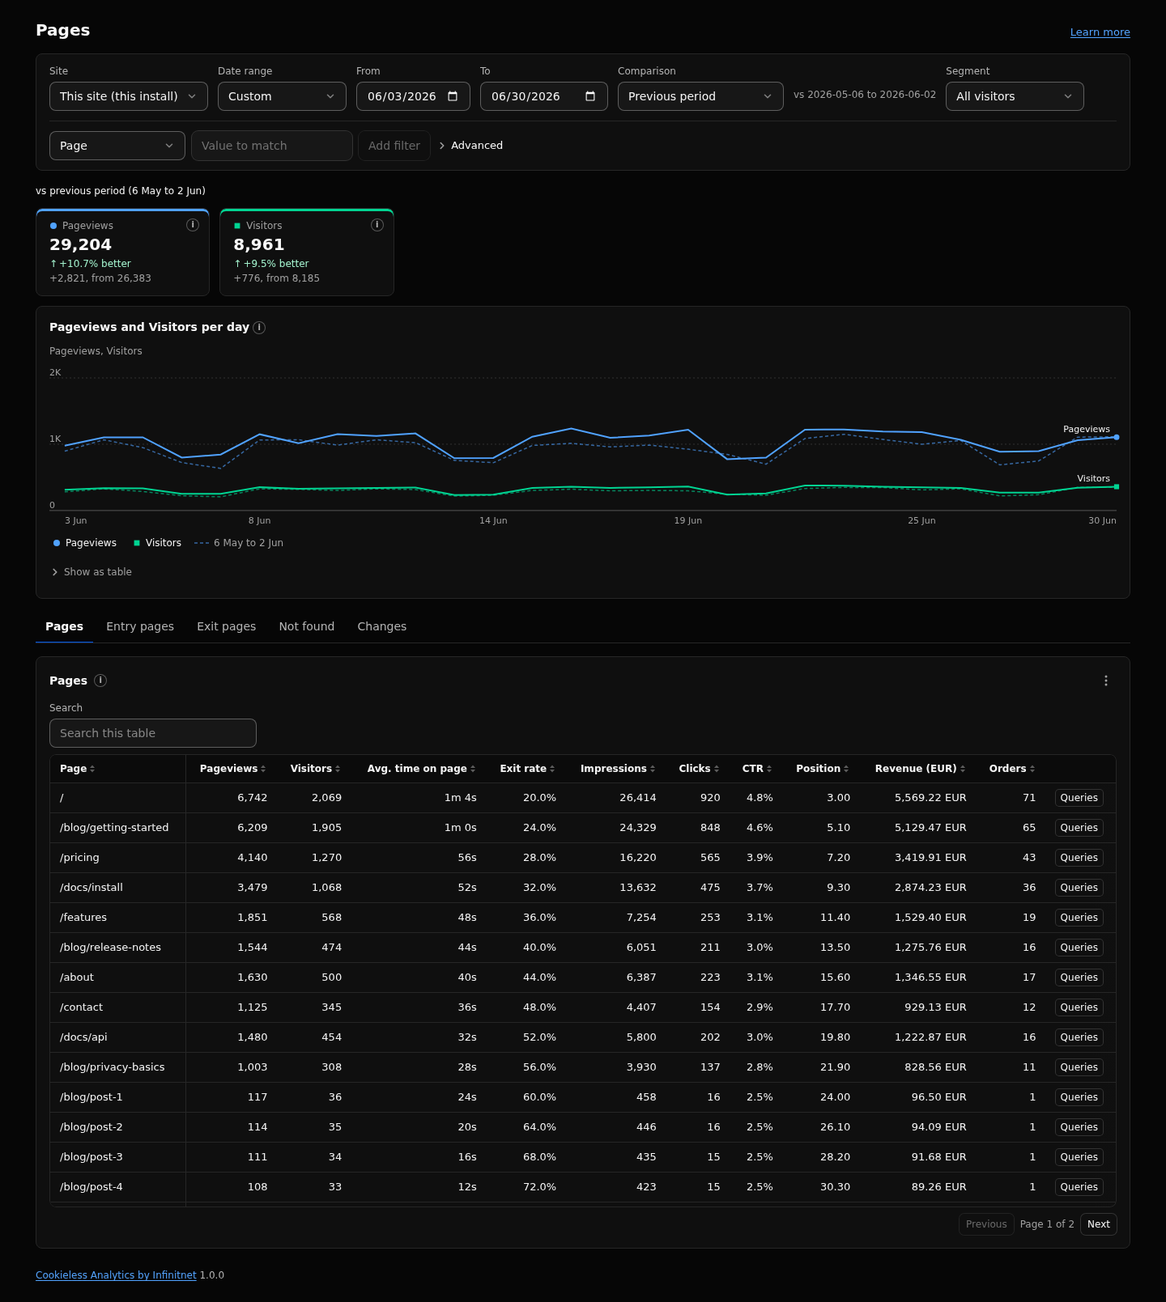
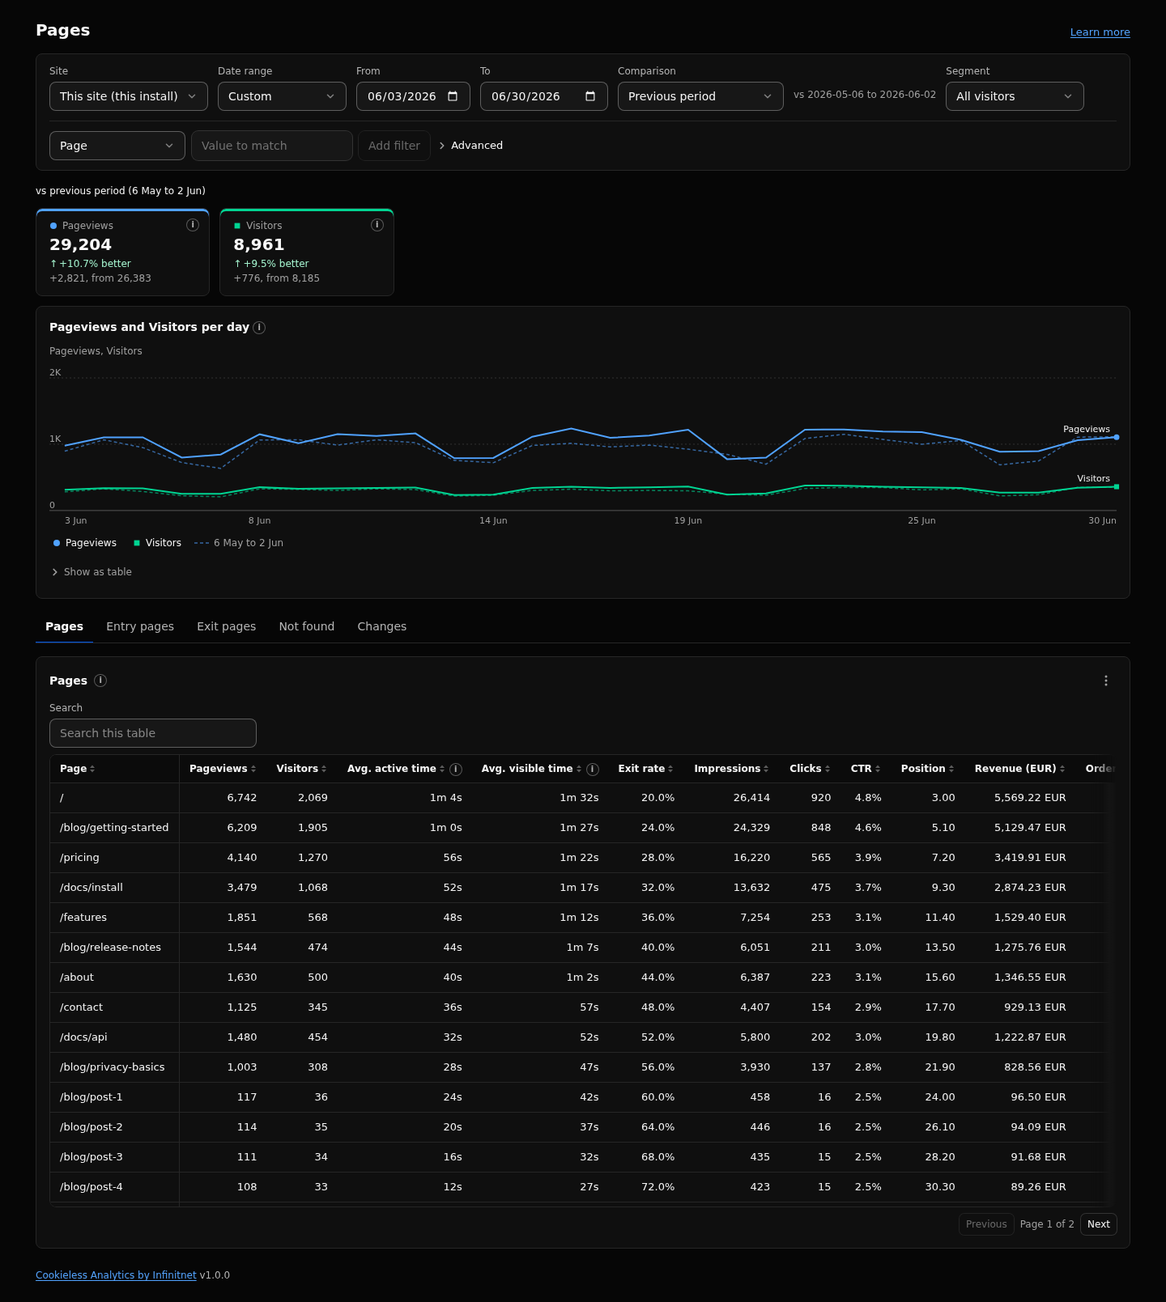
feat: honest time metrics (Avg. active time, Avg. visible time) and a form submit note

diff --git a/src/agent/schemas.ts b/src/agent/schemas.ts
@@ -193,7 +193,9 @@ export const METRICS: Record<string, string> = {
 	views_per_session: "pageviews / sessions.",
 	bounce_rate: "Sessions that are not engaged, divided by sessions: 1 - engaged_rate (the GA4 meaning).",
 	engaged_rate: "Sessions with active time at or above the engagement threshold, more than one page view or any event, divided by sessions.",
-	avg_duration: "Mean session duration in seconds (the longer of time between first and last page view and visible time).",
+	avg_duration: "Mean session duration in seconds: the longer of the visit span (first to last activity) and the visible time. Not interaction time.",
+	avg_time: "Mean active time per page view in seconds (pages report): time with interaction, within 60 s of the last one, so an open but untouched page counts 0 s.",
+	avg_visible: "Mean visible time per page view in seconds (pages report, detailed data only; null in summaries).",
 	realtime: "Sessions active within the realtime window (overview only).",
 	conversions: "Sessions that reached a goal.",
 	conversion_rate: "conversions / sessions of the filtered set.",
@@ -210,7 +212,7 @@ export const METRICS: Record<string, string> = {
 	pogo_sticks: "Measured search sessions with one page view, no events, a short click, and a page left for the back and forward cache.",
 	reentered: "Search sessions that a later arrival from a search engine joined.",
 	returned_from_search: "Search sessions that a later arrival from a search engine joined and whose landing page view (the first) was left for the back and forward cache.",
-	avg_engaged: "Mean active (engaged) time per session in seconds (Search Satisfaction reports).",
+	avg_engaged: "Mean active time per session in seconds (Search Satisfaction reports): time with interaction, not the time the page was open.",
 	measured_rate: "measured / sessions: the share of sessions with a measurable end.",
 	score: "pct_long - pct_bad - pogo_stick_rate (pogo_stick_rate counts as 0 without measured search sessions); null without measured sessions. Ranks best and worst pages (satisfaction params.rank).",
 	pct_long: "long_clicks / measured.",
@@ -295,7 +297,7 @@ export const BEHAVIOUR_CATALOG = {
 export const CONTENT_CATALOG = {
 	collections: {
 		tile: true,
-		metrics: { pageviews: "Pageviews of the collection's pages.", visitors: "Page visitors: the sum of per-page daily visitors, so one person reading two pages counts twice.", sessions: "Sessions summed per page.", avg_time: "Average visible time on page in seconds.", pages: "Distinct paths of the collection." },
+		metrics: { pageviews: "Pageviews of the collection's pages.", visitors: "Page visitors: the sum of per-page daily visitors, so one person reading two pages counts twice.", sessions: "Sessions summed per page.", avg_time: "Average active time per page view in seconds: time with interaction, not the time the page was open.", pages: "Distinct paths of the collection." },
 		rule: "Reads the daily page summaries (ca_rollup dim page), so it covers the whole summary retention. Paths are classified by each routable collection's URL pattern; the pattern with the most literal characters wins and unmatched paths are (other). totals.coverage is the classified share of all pageviews; the rest is folded into (other) by the top 500 pages per day.",
 		cacheSeconds: COLLECTIONS_CACHE_SECONDS,
 		notices: ["filters_not_applied", "not_available_for_site"],

diff --git a/src/charts/definitions.ts b/src/charts/definitions.ts
@@ -7,7 +7,7 @@ import { CAVEATS } from "./caveats.js";
 import type { ReportName } from "../query/reports/index.js";
 import { POGO_DEFINITION, RETURNED_DEFINITION, SATISFACTION_CAVEAT, SCORE_DEFINITION } from "../query/reports/satisfaction-copy.js";
 
-const BOUNCE = "Share of sessions that were not engaged: under the engaged time, one page view and no event. Equal to 1 minus engaged rate.";
+const BOUNCE = "Share of sessions that were not engaged: active time under the engaged threshold, one page view and no event. Equal to 1 minus engaged rate.";
 
 /** Figures by metric key. Position band keys (`queries_1_3`, `band_51_plus`) are read by `metricDefinition`. */
 export const METRIC_DEFINITIONS: Readonly<Record<string, string>> = {
@@ -16,10 +16,11 @@ export const METRIC_DEFINITIONS: Readonly<Record<string, string>> = {
 	pageviews: "Pages viewed by people in the range.",
 	views_per_session: "Page views divided by sessions.",
 	bounce_rate: BOUNCE,
-	engaged_rate: "Share of sessions with at least the engaged time of activity, two or more page views, or any event.",
-	avg_duration: "Average session length: the longer of first to last page view and the time the pages were visible.",
+	engaged_rate: "Share of sessions with active time of at least the engaged threshold, two or more page views, or any event.",
+	avg_duration: CAVEATS.duration,
 	entries: "Sessions that started on this page.",
-	avg_time: "Average active time on the page per page view.",
+	avg_time: CAVEATS.active_time,
+	avg_visible: CAVEATS.visible_time,
 	exit_rate: "Share of the page's views that were the last view of their session.",
 	realtime: "Sessions active within the realtime window.",
 	completions: "Times the goal was reached in the range.",
@@ -30,7 +31,7 @@ export const METRIC_DEFINITIONS: Readonly<Record<string, string>> = {
 	rate: "Share of sessions that sent this event.",
 	measured: "Sessions with a measurable end, where at least one engagement update arrived.",
 	measured_rate: CAVEATS.satisfaction_measured,
-	avg_engaged: "Average active time per session.",
+	avg_engaged: "Average active time per session: time with interaction, not the time the page was open.",
 	long_clicks: "Measured sessions longer than the long click time.",
 	short_clicks: "Measured sessions at or under the long click time.",
 	bad_experiences: "Measured single page sessions without interaction, shorter than the bad experience time.",
@@ -116,7 +117,7 @@ export type PanelId =
 export const PANEL_DEFINITIONS: Readonly<Record<ReportName | PanelId, string>> = {
 	overview: "Visitors, sessions and engagement of the site over the selected range.",
 	timeseries: "The chosen figures per hour, day or week over the selected range.",
-	pages: "Page views, visitors and average time on page for each page.",
+	pages: "Page views, visitors, average active time and average visible time for each page.",
 	entry_pages: "Sessions by the page they started on, with their bounce rate and duration.",
 	exit_pages: "Sessions by the page they ended on, and the share of the page's views that were the last one.",
 	not_found: "Requests from people that got a page not found (404) response, by path and referring page.",

diff --git a/tests/reports-golden.test.ts b/tests/reports-golden.test.ts
@@ -143,6 +143,7 @@ interface Hit {
 	name: string | null;
 	props: Record<string, unknown> | null;
 	dur: number | null;
+	vis: number | null;
 	nav: number | null;
 	exit: number | null;
 	scroll: number | null;
@@ -165,7 +166,7 @@ function load(raw: Database.Database) {
 		for (const [key, e] of Object.entries(JSON.parse(v.doc) as Record<string, Record<string, unknown>>)) {
 			if (e.t === undefined) continue;
 			const n = (f: string) => (e[f] === undefined ? null : Number(e[f]));
-			hits.push({ v, key, ts: v.started + Number(e.t), kind: e.n === undefined ? "pv" : "ev", path: (e.p as string) ?? null, query: (e.qs as string) ?? null, name: (e.n as string) ?? null, props: (e.pr as Record<string, unknown>) ?? null, dur: n("d"), nav: n("nt"), exit: n("x"), scroll: n("s") });
+			hits.push({ v, key, ts: v.started + Number(e.t), kind: e.n === undefined ? "pv" : "ev", path: (e.p as string) ?? null, query: (e.qs as string) ?? null, name: (e.n as string) ?? null, props: (e.pr as Record<string, unknown>) ?? null, dur: n("d"), vis: n("e"), nav: n("nt"), exit: n("x"), scroll: n("s") });
 		}
 	const iso = (d: unknown) => (d == null ? null : String(d).replace(/^(\d{4})(\d{2})(\d{2})$/, "$1-$2-$3"));
 	const orders = (raw.prepare("SELECT * FROM ca_events WHERE val IS NOT NULL").all() as Array<Record<string, unknown>>).map(
@@ -228,19 +229,21 @@ describe("reports against a row-per-hit reference on traffic written by the real
 		expect(counted().length).toBeGreaterThan(100);
 	});
 
-	it("pages: pageviews, visitors, time, exit rate and scroll median", async () => {
+	it("pages: pageviews, visitors, active and visible time, exit rate and scroll median", async () => {
 		const check = async (filters: Filter[], keep: (h: Hit) => boolean, sessionOk: (v: Visit) => boolean) => {
 			const vs = counted().filter(sessionOk);
 			const pvs = hitsOf("pv", vs).filter(keep);
 			const exits = by(vs, (v) => String(v.exit_path));
 			const rows = [...by(pvs, (h) => String(h.path))].map(([key, hs]): Row => {
 				const durs = hs.flatMap((h) => (h.dur === null ? [] : [h.dur]));
+				const viss = hs.flatMap((h) => (h.vis === null ? [] : [h.vis]));
 				const sc = hs.flatMap((h) => (h.scroll === null ? [] : [h.scroll])).sort((a, b) => a - b);
 				return {
 					key,
 					pageviews: hs.length,
 					visitors: visitorsOfHits(hs),
 					avg_time: durs.length ? rnd(durs.reduce((a, b) => a + b, 0) / 1000 / durs.length, 1) : null,
+					avg_visible: viss.length ? rnd(viss.reduce((a, b) => a + b, 0) / 1000 / viss.length, 1) : null,
 					exit_rate: rnd(rate(exits.get(key)?.length ?? 0, hs.length)),
 					scroll_median: sc.length ? (sc[Math.ceil(sc.length / 2) - 1] as number) : null,
 				};

diff --git a/tests/admin-pages.test.tsx b/tests/admin-pages.test.tsx
@@ -52,7 +52,7 @@ function rows(report: string): Array<Record<string, unknown>> {
 	if (empty) return [];
 	switch (report) {
 		case "pages":
-			return [{ key: "/a", pageviews: 9, visitors: 5, avg_time: 30, exit_rate: 0.5, scroll_median: 50, ...SEARCH }];
+			return [{ key: "/a", pageviews: 9, visitors: 5, avg_time: 30, avg_visible: 45, exit_rate: 0.5, scroll_median: 50, ...SEARCH }];
 		case "entry_pages": {
 			const { sessions: _s, ...rest } = SESSION;
 			return [{ key: "/entry", ...rest, entries: 6 }];
@@ -325,6 +325,17 @@ describe("Site search tab", () => {
 	});
 });
 
+describe("Pages time columns", () => {
+	it("label active time and visible time, each with its definition", async () => {
+		const { findAllByRole, findByRole } = render(<Pages />);
+		await findByRole("button", { name: "/a" });
+		const headers = (await findAllByRole("columnheader")).map((h) => h.querySelector("button")?.textContent).filter(Boolean);
+		expect(headers.slice(0, 5)).toEqual(["Page", "Pageviews", "Visitors", "Avg. active time", "Avg. visible time"]);
+		const active = (await findAllByRole("columnheader")).find((h) => h.querySelector("button")?.textContent === "Avg. active time");
+		expect(active?.querySelector(".ca-info-btn")?.getAttribute("title")).toBe(CAVEATS.active_time);
+	});
+});
+
 describe("Pages search columns", () => {
 	it("are hidden when search/status is missing", async () => {
 		const { findByRole, queryByRole } = render(<Pages />);
@@ -423,8 +434,8 @@ describe("Search Satisfaction page", () => {
 		fireEvent.click(getByRole("button", { name: /^Returned from search \(estimate\) / }));
 		expect(await findByRole("img", { name: /^Long clicks and Returned from search \(estimate\) per day, / })).toBeTruthy();
 		// Engaged time is a duration: a second scale, on the right axis.
-		fireEvent.click(getByRole("button", { name: /^Avg\. engaged time / }));
-		expect(await findByRole("img", { name: /^Long clicks, Returned from search \(estimate\) and Avg\. engaged time per day, / })).toBeTruthy();
+		fireEvent.click(getByRole("button", { name: /^Avg\. active time / }));
+		expect(await findByRole("img", { name: /^Long clicks, Returned from search \(estimate\) and Avg\. active time per day, / })).toBeTruthy();
 		expect(decodeURIComponent(window.location.search)).toContain("m=pct_long,returned_from_search_rate,avg_engaged");
 		// The measured share is a figure, not a line.
 		expect(getByRole("region", { name: "Key figures" }).querySelector('[data-metric="measured_rate"] button.ca-kpi-btn')).toBeNull();

diff --git a/src/query/reports/pages.ts b/src/query/reports/pages.ts
@@ -45,13 +45,13 @@ function median(hist: Array<[number, number]>): number | null {
 	return null;
 }
 
-/** Top pages: pageviews, visitors, avg time on page, exit rate, scroll median; optional search columns. */
+/** Top pages: pageviews, visitors, avg active time, avg visible time, exit rate, scroll median; optional search columns. */
 export async function pages(rc: ReportCtx, input: RunInput): Promise<ReportData> {
 	const h = entryCols(rc.db.dialect);
 	const j = hitJoin(rc, input, "pv");
 	const rows = await rc.db.all(
-		`SELECT t.key AS key, SUM(t.pageviews) AS pageviews, SUM(t.visitors) AS visitors, SUM(t.dur_sum) AS dur_sum, SUM(t.dur_n) AS dur_n FROM (
-SELECT ${h.path} AS key, s.day AS day, COUNT(*) AS pageviews, COUNT(DISTINCT s.vkey) AS visitors, SUM(${h.dur}) AS dur_sum, COUNT(${h.dur}) AS dur_n ${j.sql} GROUP BY ${h.path}, s.day
+		`SELECT t.key AS key, SUM(t.pageviews) AS pageviews, SUM(t.visitors) AS visitors, SUM(t.dur_sum) AS dur_sum, SUM(t.dur_n) AS dur_n, SUM(t.vis_sum) AS vis_sum, SUM(t.vis_n) AS vis_n FROM (
+SELECT ${h.path} AS key, s.day AS day, COUNT(*) AS pageviews, COUNT(DISTINCT s.vkey) AS visitors, SUM(${h.dur}) AS dur_sum, COUNT(${h.dur}) AS dur_n, SUM(${h.vis}) AS vis_sum, COUNT(${h.vis}) AS vis_n ${j.sql} GROUP BY ${h.path}, s.day
 ) t GROUP BY t.key ORDER BY pageviews DESC, key LIMIT ? OFFSET ?`,
 		[...j.params, input.limit + 1, input.offset],
 	);
@@ -80,6 +80,7 @@ SELECT ${h.path} AS key, s.day AS day, COUNT(*) AS pageviews, COUNT(DISTINCT s.v
 			pageviews,
 			visitors: num(r.visitors),
 			avg_time: round(ratio(num(r.dur_sum) / 1000, num(r.dur_n)), 1),
+			avg_visible: round(ratio(num(r.vis_sum) / 1000, num(r.vis_n)), 1),
 			// A visit opened by an event can exit on a path it never viewed (more exits than views): capped at 1, as in the summaries.
 			exit_rate: capped(round(ratio(exits.get(key) ?? 0, pageviews))),
 			scroll_median: median(scroll.get(key) ?? []),

diff --git a/tests/time-metrics.test.ts b/tests/time-metrics.test.ts
@@ -1,0 +1,41 @@
+/** Active time (interaction) is never called page time or engaged time where readers see it; durations say they are visible time. */
+import { readdirSync, readFileSync, statSync } from "node:fs";
+import { join } from "node:path";
+import { describe, expect, it } from "vitest";
+import { CAVEATS } from "../src/charts/caveats.js";
+import { METRIC_DEFINITIONS } from "../src/charts/definitions.js";
+import { metricLabel } from "../src/dashboards/tiles.js";
+
+const ROOTS = ["src/admin", "src/charts", "src/dashboards", "src/data/templates", "docs", "README.md"];
+const BANNED = /time on page|avg\. engaged time/i;
+
+function files(path: string): string[] {
+	if (!statSync(path).isDirectory()) return [path];
+	return readdirSync(path, { recursive: true, encoding: "utf8" })
+		.map((f) => join(path, f))
+		.filter((f) => /\.(md|json|ts|tsx)$/.test(f) && statSync(f).isFile());
+}
+
+describe("time metric wording", () => {
+	it("no user facing text calls active time 'time on page' or 'Avg. engaged time'", () => {
+		const found: string[] = [];
+		for (const f of ROOTS.flatMap(files))
+			readFileSync(f, "utf8")
+				.split("\n")
+				.forEach((line, i) => BANNED.test(line) && found.push(`${f}:${i + 1}`));
+		expect(found).toEqual([]);
+	});
+
+	it("the pattern catches what it forbids", () => {
+		for (const s of ["Avg. time on page", "average Time On Page", "Avg. engaged time"]) expect(BANNED.test(s), s).toBe(true);
+	});
+
+	it("labels and definitions keep active time and duration apart", () => {
+		expect(metricLabel("avg_time")).toBe("Avg. active time");
+		expect(metricLabel("avg_engaged")).toBe("Avg. active time");
+		expect(metricLabel("avg_visible")).toBe("Avg. visible time");
+		expect(METRIC_DEFINITIONS.avg_time).toBe(CAVEATS.active_time);
+		expect(CAVEATS.active_time).toContain("0 s");
+		expect(METRIC_DEFINITIONS.avg_duration).toContain("Not interaction time");
+	});
+});

diff --git a/src/settings.ts b/src/settings.ts
@@ -55,7 +55,7 @@ export const settingsSchema = {
 	realtimeWindowMinutes: { type: "number", label: "Realtime window (minutes)", description: "Sessions seen within this time count as active now.", default: 5, min: 1, max: 60 },
 	maxSessionMinutes: { type: "number", label: "Maximum session length (minutes)", description: "A session older than this is closed and a new one starts. At most one day: a visit is looked up among visits started today or yesterday.", default: 1440, min: 10, max: 1440 },
 	reloadDedupeSeconds: { type: "number", label: "Reload dedupe (seconds)", description: "A reload of the same path within this time is not counted again.", default: 2, min: 0, max: 60 },
-	maxEngagedMsPerPage: { type: "number", label: "Maximum engaged time per page (ms)", description: "Cap for the active time reported for one page.", default: 1800000, min: 60000, max: 7200000 },
+	maxEngagedMsPerPage: { type: "number", label: "Maximum active time per page (ms)", description: "Cap for the active time and the visible time reported for one page.", default: 1800000, min: 60000, max: 7200000 },
 	acceptClientRevenue: { type: "boolean", label: "Accept revenue from browsers", description: "When off, values, currencies and order ids are dropped from every browser request. Server calls and the agent events route still record them. A guard against casual spoofing, not authentication.", default: true },
 	autoAnnotations: { type: "boolean", label: "Automatic annotations", description: "Add an annotation when content is published or updated. Off, the content hooks write nothing; annotations added by hand are unaffected.", default: true },
 	annotatePublish: { type: "boolean", label: "Annotate publishing", description: "Add an annotation when an item is published.", default: true },

diff --git a/tests/admin-settings.test.tsx b/tests/admin-settings.test.tsx
@@ -97,7 +97,7 @@ describe("Settings page", () => {
 		window.history.replaceState(null, "", "?tab=sessions");
 		render(<Settings />);
 		fireEvent.click(await screen.findByRole("button", { name: "Advanced" }));
-		fireEvent.change(screen.getByLabelText("Maximum engaged time per page"), { target: { value: "500" } });
+		fireEvent.change(screen.getByLabelText("Maximum active time per page"), { target: { value: "500" } });
 		fireEvent.click(screen.getByRole("button", { name: "Advanced" }));
 		fireEvent.change(screen.getByLabelText("Long click"), { target: { value: "20" } });
 		fireEvent.change(screen.getByLabelText("Bad experience"), { target: { value: "30" } });
@@ -105,7 +105,7 @@ describe("Settings page", () => {
 		expect(await screen.findByText(SETTINGS_TEXT.refused(2))).toBeTruthy();
 		expect(screen.getByText("Use a whole number from 1 to 120.")).toBeTruthy();
 		expect(screen.getByText("Not above the long click time (20 seconds).")).toBeTruthy();
-		expect(screen.getByLabelText("Maximum engaged time per page").getAttribute("aria-invalid")).toBe("true");
+		expect(screen.getByLabelText("Maximum active time per page").getAttribute("aria-invalid")).toBe("true");
 		expect(stored.maxEngagedMsPerPage).toBeUndefined();
 		expect(stored.badExperienceSeconds).toBeUndefined();
 		expect(stored.longClickSeconds).toBeUndefined();

diff --git a/tests/copy.test.ts b/tests/copy.test.ts
@@ -193,7 +193,7 @@ describe("copy rules", () => {
 			"Delete matching visits",
 			"Preview matching visits",
 			"Typical bot visit",
-			"One page view, no engaged time and no scroll (combine it with a country or a browser above)",
+			"One page view, no active time and no scroll (combine it with a country or a browser above)",
 			"Top values of the matches",
 			"Check that this is the traffic you mean to delete.",
 			"What is removed",
@@ -212,7 +212,7 @@ describe("copy rules", () => {
 			"Desktop, 1200 px and wider",
 		];
 		const spec = DeleteSpecSchema.parse({ from: "2026-03-01", to: "2026-03-07", filters: [{ dim: "browser", op: "not_regex", values: ["^Head"] }], screen: ["xs"], hours: { from: 22, to: 3 }, shape: "single_view_idle", oldDays: true });
-		expect(describeSpec(spec)).toBe("2026-03-01 to 2026-03-07: browser not regex ^Head; screen xs; hour 22 to 3; one page view, no engaged time, no scroll; whole summaries of older days");
+		expect(describeSpec(spec)).toBe("2026-03-01 to 2026-03-07: browser not regex ^Head; screen xs; hour 22 to 3; one page view, no active time, no scroll; whole summaries of older days");
 		for (const t of [...strings, describeSpec(spec)]) {
 			if (strings.includes(t)) expect(src.includes(t), t).toBe(true);
 			expect(DASHES.some((d) => t.includes(d)), t).toBe(false);

diff --git a/src/query/filtered-delete.ts b/src/query/filtered-delete.ts
@@ -35,7 +35,7 @@ import { budgetState, dailyRowsApply } from "./storage.js";
 export const DELETE_DIMS = (Object.keys(TRAFFIC_DIMS) as Array<keyof typeof TRAFFIC_DIMS>).filter((k) => TRAFFIC_DIMS[k].scope === "session") as Dim[];
 /** Screen width classes (`screenBucket`). */
 export const SCREENS = ["xs", "sm", "md", "lg", "xl"] as const;
-/** Visit shapes: `single_view_idle` is one page view with no engaged time and no scroll. */
+/** Visit shapes: `single_view_idle` is one page view with no active time and no scroll. */
 export const SHAPES = ["single_view_idle"] as const;
 /** Longest range of one delete, so the preview reads a bounded number of visits. */
 export const DELETE_MAX_DAYS = 400;
@@ -81,7 +81,7 @@ export function describeSpec(s: DeleteSpec): string {
 	const parts = s.filters.map((f) => `${f.dim} ${f.op.replace("_", " ")} ${f.values.join(", ")}`);
 	if (s.screen) parts.push(`screen ${s.screen.join(", ")}`);
 	if (s.hours) parts.push(`hour ${s.hours.from} to ${s.hours.to}`);
-	if (s.shape) parts.push("one page view, no engaged time, no scroll");
+	if (s.shape) parts.push("one page view, no active time, no scroll");
 	if (s.oldDays) parts.push("whole summaries of older days");
 	return `${s.from} to ${s.to}${parts.length ? `: ${parts.join("; ")}` : ": every visit"}`;
 }

diff --git a/src/admin/pages/Satisfaction.tsx b/src/admin/pages/Satisfaction.tsx
@@ -61,7 +61,7 @@ export const scoreRows = (rows: TableRow[]): TableRow[] =>
 
 const RATE_COLUMNS: Column[] = [
 	{ key: "sessions", label: "Sessions", note: (r) => `${String(r.measured ?? 0)} measured` },
-	{ key: "avg_duration", label: "Avg. duration", format: "duration" },
+	{ key: "avg_duration", label: "Avg. duration", format: "duration", caveat: "duration" },
 	{ key: "pct_long", label: "Long clicks %", format: "percent" },
 	{ key: "pct_short", label: "Short clicks %", format: "percent" },
 	{ key: "pct_bad", label: "Bad experience %", format: "percent" },
@@ -108,10 +108,10 @@ function RawOnly({ view, error }: { view: View; error: string }) {
 	);
 }
 
-/** The figures of the page: the five rates and engaged time toggle series of one chart; the measured share is a plain figure. */
+/** The figures of the page: the five rates and active time toggle series of one chart; the measured share is a plain figure. */
 const SAT_METRICS: readonly MetricDef[] = [
 	...SAT_RATES.map(([key, label]) => ({ key, label, format: "percent" as const })),
-	{ key: "avg_engaged", label: "Avg. engaged time", format: "duration" },
+	{ key: "avg_engaged", label: "Avg. active time", format: "duration" },
 	{ key: "measured_rate", label: "Measured share", format: "percent", selectable: false },
 ];
 

diff --git a/src/admin/components/ImpactPanel.tsx b/src/admin/components/ImpactPanel.tsx
@@ -33,7 +33,7 @@ export const IMPACT_OPTIONS: readonly Option[] = [
 	["Traffic", "overview", "engaged_rate", "Engaged rate", "percent"],
 	["Traffic", "overview", "avg_duration", "Avg. duration", "duration"],
 	["Traffic", "overview", "views_per_session", "Views per session", "decimal"],
-	["Pages", "pages", "avg_time", "Avg. time on page", "duration", "page"],
+	["Pages", "pages", "avg_time", "Avg. active time", "duration", "page"],
 	["Pages", "pages", "exit_rate", "Exit rate", "percent", "page"],
 	["Channels", "channels", "sessions", "Sessions of one channel", "number", "channel"],
 	["Goals", "goals", "completions", "Goal completions", "number", "goal"],
@@ -54,7 +54,7 @@ export const IMPACT_OPTIONS: readonly Option[] = [
 /** One line per group on what its metrics measure (the hint under the picker). */
 export const GROUP_HINTS: Record<string, string> = {
 	Traffic: "Visits inside the annotation's scope.",
-	Pages: "One page: the time spent on it and the share of visits that left from it.",
+	Pages: "One page: its active time and the share of visits that left from it.",
 	Channels: "Sessions from one channel, inside the scope.",
 	Goals: "Completions of one goal, inside the scope.",
 	Events: "How often one event was sent, inside the scope.",
